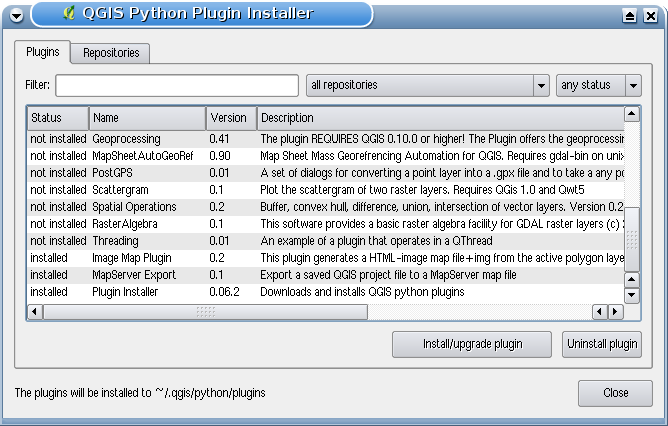
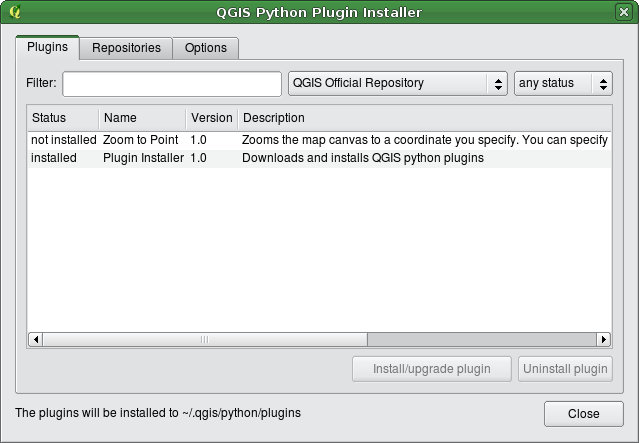
updates to plugins chapter: new plugin installer dialog (plugin manager altered to match), info on experimental plugins, general cleanup
git-svn-id: https://svn.osgeo.org/qgis/docs/trunk@10662 c8812cc2-4d05-0410-92ff-de0c093fc19c

diff --git a/english_us/user_guide/plugins.tex b/english_us/user_guide/plugins.tex
@@ -15,20 +15,20 @@ Many of the features in QGIS are actually implemented as \textbf{core} or \textb
 They are written in one of two languages: C++ or Python.
 More information about core plugins are provided in Section \ref{sec:core_plugins}.
 \item \textbf{External Plugins} are currently all written in Python.
-They are stored in external repositories and maintained by the individual author.
-They can be added to QGIS using the core plugin called \filename{Plugin Installer}.
+They are stored in external repositories and maintained by the individual authors.
+They can be added to QGIS using the \filename{Plugin Installer}.
 More information about external plugins are provided in Section \ref{sec:external_plugins}.
 \end{itemize}
 
 \subsection{Managing Plugins}\label{sec:managing_plugins}
 \index{plugins!managing} 
 
-Managing plugins in general means loading or unloading them using the \filename{Plugin Manager} plugin.
-External plugins need to be first installed using the \filename{Plugin Installer} plugin.
+Managing plugins in general means loading or unloading them using the \filename{Plugin Manager}.
+External plugins first need to be installed using the \filename{Plugin Installer}.
 
 \subsubsection{Loading a QGIS Core Plugin}\label{sec:load_core_plugin} 
 
-Loading a QGIS Core Plugin is provided in the main menu \mainmenuopt{Plugins} > \dropmenuopttwo{mActionShowPluginManager}{Manage Plugins...}.\index{plugins!manager}
+Loading a QGIS Core Plugin is done from the main menu \mainmenuopt{Plugins} > \dropmenuopttwo{mActionShowPluginManager}{Manage Plugins...}.\index{plugins!manager}
 
 \begin{figure}[ht]
    \begin{center}
@@ -37,10 +37,12 @@ Loading a QGIS Core Plugin is provided in the main menu \mainmenuopt{Plugins} > 
 \end{center}
 \end{figure}
 
-The Plugin Manager lists all the available plugins and their status (loaded or unloaded).
-All available means all core plugins and all external plugins you added using \filename{Plugin Installer} plugin (see Section \ref{sec:external_plugins}). 
+The \filename{Plugin Manager} lists all the available plugins and their status (loaded or unloaded), 
+including all core plugins and all external plugins that have been added using the \filename{Plugin Installer} 
+(see Section \ref{sec:external_plugins}). 
 Figure \ref{fig:pluginmanager} shows the Plugin Manager dialog.
-Loaded plugins are "remembered" when you exit the application and restored the next time you run QGIS.
+When you exit the application, a list of loaded plugins is retained, and the next time 
+you run QGIS these plugins are automatically loaded.
 
 \begin{Tip}\caption{\textsc{Crashing Plugins}}\index{crashes}
 \qgistip{If you find that QGIS crashes on startup, a plugin may be at fault.
@@ -49,17 +51,17 @@ Locate the plugins settings and change all the plugin values to false to prevent
 \nix {For example, to prevent the Delimited text plugin from loading, the entry in \$HOME/.config/QuantumGIS/qgis.conf on Linux should look like this:\usertext{Add Delimited Text Layer=false}.}
 \normalfont 
 Do this for each plugin in the [Plugins] section.
-You can then start QGIS and add the plugins one at a time from the Plugin Manger to determine which is causing the problem.}
+You can then start QGIS and add the plugins one at a time from the \filename{Plugin Manager} to 
+determine which plugin is causing the problem.}
 \end{Tip} 
 
 \subsubsection{Loading an external QGIS Plugin}\label{sec:load_external_plugin} 
 
-To be able to integrate external plugins into QGIS you first need to load the \filename{Plugin Installer} plugin as desribed in Section \ref{sec:load_core_plugin}.
-Then you can load external QGIS python plugin in two steps: 
+There are two steps required to integrate external plugins into QGIS: 
 
 \begin{enumerate}
 \item Download an external plugin from a repository using the \filename{Plugin Installer} (Section \ref{sec:python_plugin_installer}).
-The new external plugin will be integrated into the list of available plugins in the \filename{Plugin Manager}.
+The new external plugin will be added to the list of available plugins in the \filename{Plugin Manager}.
 \item Load the plugin using the \filename{Plugin Manager}.
 \end{enumerate}
 
@@ -75,13 +77,13 @@ The new external plugin will be integrated into the list of available plugins in
 \end{figure}
 
 In order to download and install an external Python plugin, click the menu \mainmenuopt{Plugins} > \dropmenuopttwo{plugin_installer}{Fetch Python Plugins...}.
-The \filename{Plugin Installer} window will appear (figure \ref{fig:plugininstaller}) with the tab \tab{Plugins}, containing the list of all Python plugins available in remote repositories as well as installed ones. Each plugin can be either:
+The \filename{Plugin Installer} window will appear (figure \ref{fig:plugininstaller}) with the tab \tab{Plugins}, containing a list of all locally installed Python plugins, as well as plugins available in remote repositories. Each plugin can be either:
 \begin{itemize}
-\item \textbf{not installed} - it means the plugin is available in the repository, but is not installed yet. In order to install, select it from the list and click the \button{Install plugin} button.
-\item \textbf{new} - the same as before but the plugin is seen for the first time.
-\item \textbf{installed} - the plugin is installed. If it's also available in any repository the \button{Reinstall plugin} button is enabled. But if the available version is older than the installed one, the \button{Downgrade plugin} button appears instead.
-\item \textbf{upgradeable} - the plugin is installed, but there is an updated version available. The \button{Upgrade plugin} button is enabled.
-\item \textbf{invalid} - the plugin is installed, but is unworkable. The reason is explained in the plugin description.
+\item \textbf{not installed} - this means the plugin is available in the repository, but is not installed yet. In order to install it, select the plugin from the list and click the \button{Install plugin} button.
+\item \textbf{new} - this means that the plugin is newly available in the repository.
+\item \textbf{installed} - this indicates that the plugin is already installed. If it is also available in any repository the \button{Reinstall plugin} button will be enabled. If the available version is older than the installed version, the \button{Downgrade plugin} button will appear instead.
+\item \textbf{upgradeable} - this means that the plugin is installed, but there is an updated version available. In this case, the \button{Upgrade plugin} button will be enabled.
+\item \textbf{invalid} - this means that the plugin is installed, but is unavailable or broken. The reason will be explained in the plugin description field.
 \end{itemize}
 
 \minisec{Plugins tab}
@@ -102,19 +104,38 @@ C:\textbackslash Documents and Settings\textbackslash\$USERNAME\textbackslash
 .qgis\textbackslash python\textbackslash plugins
 \end{itemize}
 
-If the installation is successful, a confirmation message will appear. Then you need go to the \mainmenuopt{Plugins} > \dropmenuopttwo{mActionShowPluginManager}{Manage Plugins...} and load the installed plugin. 
+If the installation is successful, a confirmation message will appear telling you to go to \mainmenuopt{Plugins} > \dropmenuopttwo{mActionShowPluginManager}{Manage Plugins...} to load the newly installed plugin.
 
-If the installation fails, the reason is displayed. The most often troubles are related to connection errors and missing Python modules. In the former case you'll probably need to wait some minutes or hours, in the latter one you need to install the missing modules in your operating system prior to using the plugin. \nix{For Linux, most required modules should be available in a package manager}. \win{For install instructions in Windows visit the module home page}. If you use a proxy, you may need to configure it under the menu \mainmenuopt{Settings} > \dropmenuopttwo{mActionOptions}{Options} on the \tab{Proxy} tab.
+If the installation fails, the reason for the failure will be displayed in a warning dialog. Most often, errors are the result of 
+connection problems and/or missing Python modules. In the former case you will likely need to wait before trying the install again, in the latter case, you should install the missing modules relevant to your operating system prior to using the plugin. \nix{For Linux, most required modules should be available via a package manager}. \win{For install instructions in Windows visit the module home page}. If you are using a proxy, you may need to configure it under \mainmenuopt{Edit} > \dropmenuopttwo{mActionOptions}{Options} on the \tab{Proxy} tab.
 
-The \button{Uninstall plugin} button is enabled only if the selected plugin is installed and it's not a core plugin. Note that if you have installed an update of a core plugin, you can still uninstall this update with the \button{Uninstall plugin} and revert to the version shipped within Quantum GIS install package. This one cannot be uninstalled.
+The \button{Uninstall plugin} button is enabled only if the selected plugin is installed and is not a core plugin. Note that if you have installed an update to a core plugin, you can uninstall this update with the \button{Uninstall plugin} and revert to the version shipped with Quantum GIS. This default version however, cannot be uninstalled.
 
 \minisec{Repositories tab}
 
-The second tab \tab{Repositories} contains a list of plugin repositories available for the Plugin Installer. By default, only the QGIS Official Repository is used. You can add some user-contributed repositories, including the central QGIS Contributed Repository and a few author repositories by clicking the \button{Add 3rd party repositories} button. Those repositories contain a huge number of more or less useful plugins but please note that they aren't maintained by the QGIS Development Team and we can't take any responsibility for them. You can also manage the repository list manually, that is add, remove and edit the entries. Temporary disabling a particular repository is possible clicking the \button{Edit...} button.
+The second tab \tab{Repositories}, contains a list of plugin repositories available for the \filename{Plugin Installer}. By default, only the QGIS Official Repository is enabled. You can add several user-contributed repositories, including the central QGIS Contributed Repository and other external repositories by clicking the \button{Add 3rd party repositories} button. The added repositories contain a large number of useful plugins which are not maintained by the QGIS Development Team. As such, we cannot take any responsibility for them. You can also manage the repository list manually, that is add, remove, and edit the entries. Temporarily disabling a particular repository is possible by clicking the \button{Edit...} button.
 
-The \checkbox{Check for updates on startup} checkbox makes QGIS looking for plugin updates and news. If it's enabled, all repositories listed and enabled on the \tab{Repositories} tab are checked whenever the program is starting. If a new plugin or an update for one of installed plugins is available, a clickable notification appears in the Status Bar. If the checkbox is disabled, looking for updates and news is performed only when Plugin Installer is being launched from the menu.
+\minisec{Options tab}
 
-In case of some internet connection problems a \textit{Looking for new plugins...} indicator in the Status Bar may stay visible during whole QGIS session and cause a program crash when exiting. In this case please disable the checkbox.
+The \tab{Options} tab is where you can configure the settings of the \filename{Plugin Installer}. The \checkbox{Check for updates on startup} checkbox tells QGIS to automatically look for plugin updates and news. By default, if this feature is enabled all repositories listed and enabled in the \tab{Repositories} tab are checked for updates each time the program is started. The frequency of update checking can be adjusted using the dropdown menu, and may be adjusted from once a day right up to once a month. If a new plugin or update is available for one of the installed plugins, a notification will appear in the Status Bar. If the checkbox is disabled, looking for updates and news is performed only when the \filename{Plugin Installer} is manually launched from the menu.
+
+Some internet connections will cause problems when attempting to automatically check for updates. In these cases, a \textit{Looking for new plugins...} indicator will remain visible in the Status Bar during your entire QGIS session, and may cause a program crash when exiting. In this case please disable the checkbox.
+
+In addition, you may specify the type of plugins that are displayed by the \filename{Plugin Installer}. Under \textit{Allowed plugins}, you can specify whether you would like to:
+
+\begin{itemize}
+\item Only show plugins from the official repository
+\item Show all plugins except those marked as experimental,
+\item or Show all plugins, even those marked as experimental.
+\end{itemize}
+
+\begin{Tip}
+ \caption{\textsc{Using experimental plugins}}
+\qgistip{
+Experimental plugins are generally unsuitable for production use. These plugins are in the early stages of development, and should be considered 'incomplete' or 'proof of concept' tools. The QGIS development team does not recommend installing these plugins unless you intend to use them for testing purposes.
+}
+\end{Tip}
+
 
 \subsection{Data Providers}\index{data providers}
 
